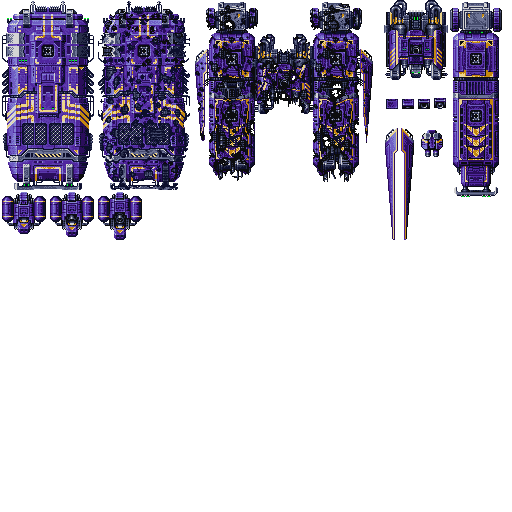
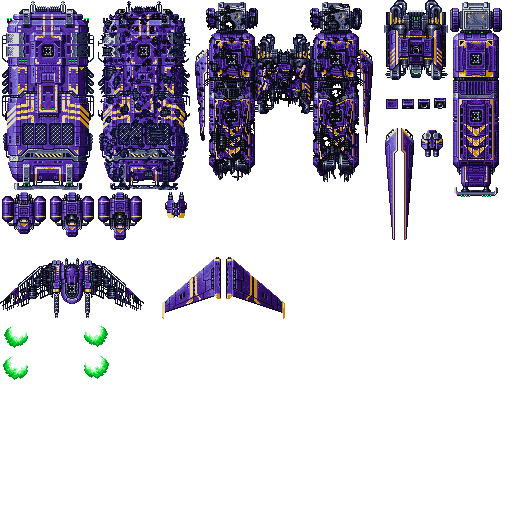
Add new boss.

diff --git a/src/danmaku/danmakuBoss_2.js b/src/danmaku/danmakuBoss_2.js
@@ -1,0 +1,97 @@
+/*
+ *  danmakuBoss_2.js
+ *  2015/10/11
+ *  @auther minimo  
+ *  This Program is MIT license.
+ */
+
+phina.namespace(function() {
+
+pbr.danmaku = pbr.danmaku || {};
+
+var action = bulletml.dsl.action;
+var actionRef = bulletml.dsl.actionRef;
+var bullet = bulletml.dsl.bullet;
+var bulletRef = bulletml.dsl.bulletRef;
+var fire = bulletml.dsl.fire;
+var fireRef = bulletml.dsl.fireRef;
+var changeDirection = bulletml.dsl.changeDirection;
+var changeSpeed = bulletml.dsl.changeSpeed;
+var accel = bulletml.dsl.accel;
+var wait = bulletml.dsl.wait;
+var vanish = bulletml.dsl.vanish;
+var repeat = bulletml.dsl.repeat;
+var bindVar = bulletml.dsl.bindVar;
+var notify = bulletml.dsl.notify;
+var direction = bulletml.dsl.direction;
+var speed = bulletml.dsl.speed;
+var horizontal = bulletml.dsl.horizontal;
+var vertical = bulletml.dsl.vertical;
+var fireOption = bulletml.dsl.fireOption;
+var offsetX = bulletml.dsl.offsetX;
+var offsetY = bulletml.dsl.offsetY;
+var autonomy = bulletml.dsl.autonomy;
+
+var interval = function(v) {
+  return wait("{0} * (0.3 + (1.0 - $densityRank) * 0.7)".format(v));
+};
+var spd = function(v) {
+  return speed("{0} * (1.0 + $speedRank * 2.0)".format(v));
+};
+var spdSeq = function(v) {
+  return speed("{0} * (1.0 + $speedRank * 2.0)".format(v), "sequence");
+};
+
+var RS  = bullet({ type: "RS"  });
+var RM  = bullet({ type: "RM"  });
+var RL  = bullet({ type: "RL"  });
+var RES = bullet({ type: "RES" });
+var REM = bullet({ type: "REM" });
+
+var BS  = bullet({ type: "BS"  });
+var BM  = bullet({ type: "BM"  });
+var BL  = bullet({ type: "BL"  });
+var BES = bullet({ type: "BES" });
+var BEM = bullet({ type: "BEM" });
+var THIN = bullet({ type: "THIN" });
+
+var DM = bullet({ dummy: true });
+
+//２面中ボス
+pbr.danmaku.Raven = new bulletml.Root({
+    top0: action([
+        repeat(Infinity, [
+            repeat("$burst + 1", [
+                fire(RM, spd(0.5), direction(20, "absolute"), offsetX(-32), offsetY(16)),
+                repeat(5, [
+                    fire(RM, spdSeq(0), direction(-30, "sequence"), offsetX(-32), offsetY(16)),
+                ]),
+            ]),
+            repeat("$burst + 1", [
+                fire(RM, spd(0.5), direction(340, "absolute"), offsetX(32), offsetY(16)),
+                repeat(5, [
+                    fire(RM, spdSeq(0), direction(30, "sequence"), offsetX(32), offsetY(16)),
+                ]),
+            ]),
+            interval(20),
+
+            repeat("$burst + 1", [
+                fire(RM, spd(0.5), direction(40, "absolute"), offsetX(-32), offsetY(16)),
+                repeat(6, [
+                    fire(RM, spdSeq(0), direction(-30, "sequence"), offsetX(-32), offsetY(16)),
+                ]),
+            ]),
+            repeat("$burst + 1", [
+                fire(RM, spd(0.5), direction(320, "absolute"), offsetX(32), offsetY(16)),
+                repeat(6, [
+                    fire(RM, spdSeq(0), direction(30, "sequence"), offsetX(32), offsetY(16)),
+                ]),
+            ]),
+            interval(30),
+        ]),
+    ]),
+});
+
+
+});
+

diff --git a/src/enemy/enemydataboss_2.js b/src/enemy/enemydataboss_2.js
@@ -1,5 +1,5 @@
 /*
- *  EnemyDataBoss.js
+ *  EnemyDataBoss_2.js
  *  2015/10/10
  *  @auther minimo  
  *  This Program is MIT license.
@@ -13,6 +13,51 @@ pbr.enemyData = pbr.enemyData || [];
  *  大型爆撃機「レイブン」
  *
  */
+pbr.enemyData['Raven'] = {
+    //使用弾幕パターン
+    danmakuName: "Raven",
+
+    //当り判定サイズ
+    width:  98,
+    height: 196,
+
+    //耐久力
+    def: 3000,
+
+    //得点
+    point: 200000,
+
+    //表示レイヤー番号
+    layer: LAYER_OBJECT_LOWER,
+
+    //敵タイプ
+    type: ENEMY_MBOSS,
+
+    //爆発タイプ
+    explodeType: EXPLODE_BOSS,
+
+    //機体用テクスチャ情報
+    texName: "tex_boss1",
+    texWidth: 144,
+    texHeight: 64,
+    texTrimX: 0,
+    texTrimY: 256,
+    texTrimWidth: 144,
+    texTrimHeight: 64,
+    texIndex: 0,
+
+    setup: function(enterParam) {
+        this.phase = 0;
+        this.isCollision = false;
+        this.isMuteki = true;
+    },
+
+    epuipment: function() {
+    },
+
+    algorithm: function() {
+    },
+};
 
 /*
  *
@@ -20,3 +65,48 @@ pbr.enemyData = pbr.enemyData || [];
  *  大型超高高度爆撃機「ガルーダ」
  *
  */
+pbr.enemyData['Garuda'] = {
+    //使用弾幕パターン
+    danmakuName: ["Garuda_1","Garuda_2","Garuda_3"],
+
+    //当り判定サイズ
+    width:  98,
+    height: 196,
+
+    //耐久力
+    def: 3000,
+
+    //得点
+    point: 400000,
+
+    //表示レイヤー番号
+    layer: LAYER_OBJECT_LOWER,
+
+    //敵タイプ
+    type: ENEMY_MBOSS,
+
+    //爆発タイプ
+    explodeType: EXPLODE_BOSS,
+
+    //機体用テクスチャ情報
+    texName: "tex_boss1",
+    texWidth: 144,
+    texHeight: 64,
+    texTrimX: 0,
+    texTrimY: 256,
+    texTrimWidth: 144,
+    texTrimHeight: 64,
+    texIndex: 0,
+
+    setup: function(enterParam) {
+        this.phase = 0;
+        this.isCollision = false;
+        this.isMuteki = true;
+    },
+
+    epuipment: function() {
+    },
+
+    algorithm: function() {
+    },
+};

diff --git a/index.html b/index.html
@@ -51,7 +51,8 @@
 
     <script src='src/danmaku/danmaku.js'></script>
     <script src='src/danmaku/danmakuBasic.js'></script>
-    <script src='src/danmaku/danmakuBoss.js'></script>
+    <script src='src/danmaku/danmakuBoss_1.js'></script>
+    <script src='src/danmaku/danmakuBoss_2.js'></script>
 
     <script src='src/scene/sceneflow.js'></script>
     <script src='src/scene/splashscene.js'></script>

diff --git a/src/enemy/enemydataboss_1.js b/src/enemy/enemydataboss_1.js
@@ -25,7 +25,7 @@ pbr.enemyData['ThorHammer'] = {
     def: 3000,
 
     //得点
-    point: 10000,
+    point: 100000,
 
     //表示レイヤー番号
     layer: LAYER_OBJECT_LOWER,

diff --git a/src/enemy/enemydataboss_3.js b/src/enemy/enemydataboss_3.js
@@ -1,5 +1,5 @@
 /*
- *  EnemyDataBoss.js
+ *  EnemyDataBoss_3.js
  *  2015/10/10
  *  @auther minimo  
  *  This Program is MIT license.

diff --git a/src/enemy/enemydataboss_4.js b/src/enemy/enemydataboss_4.js
@@ -1,5 +1,5 @@
 /*
- *  EnemyDataBoss.js
+ *  EnemyDataBoss_4.js
  *  2015/10/10
  *  @auther minimo  
  *  This Program is MIT license.

diff --git a/src/danmaku/danmakuBoss_1.js b/src/danmaku/danmakuBoss_1.js
@@ -1,5 +1,5 @@
 /*
- *  danmaku.js
+ *  danmakuBoss_1.js
  *  2015/10/11
  *  @auther minimo  
  *  This Program is MIT license.
